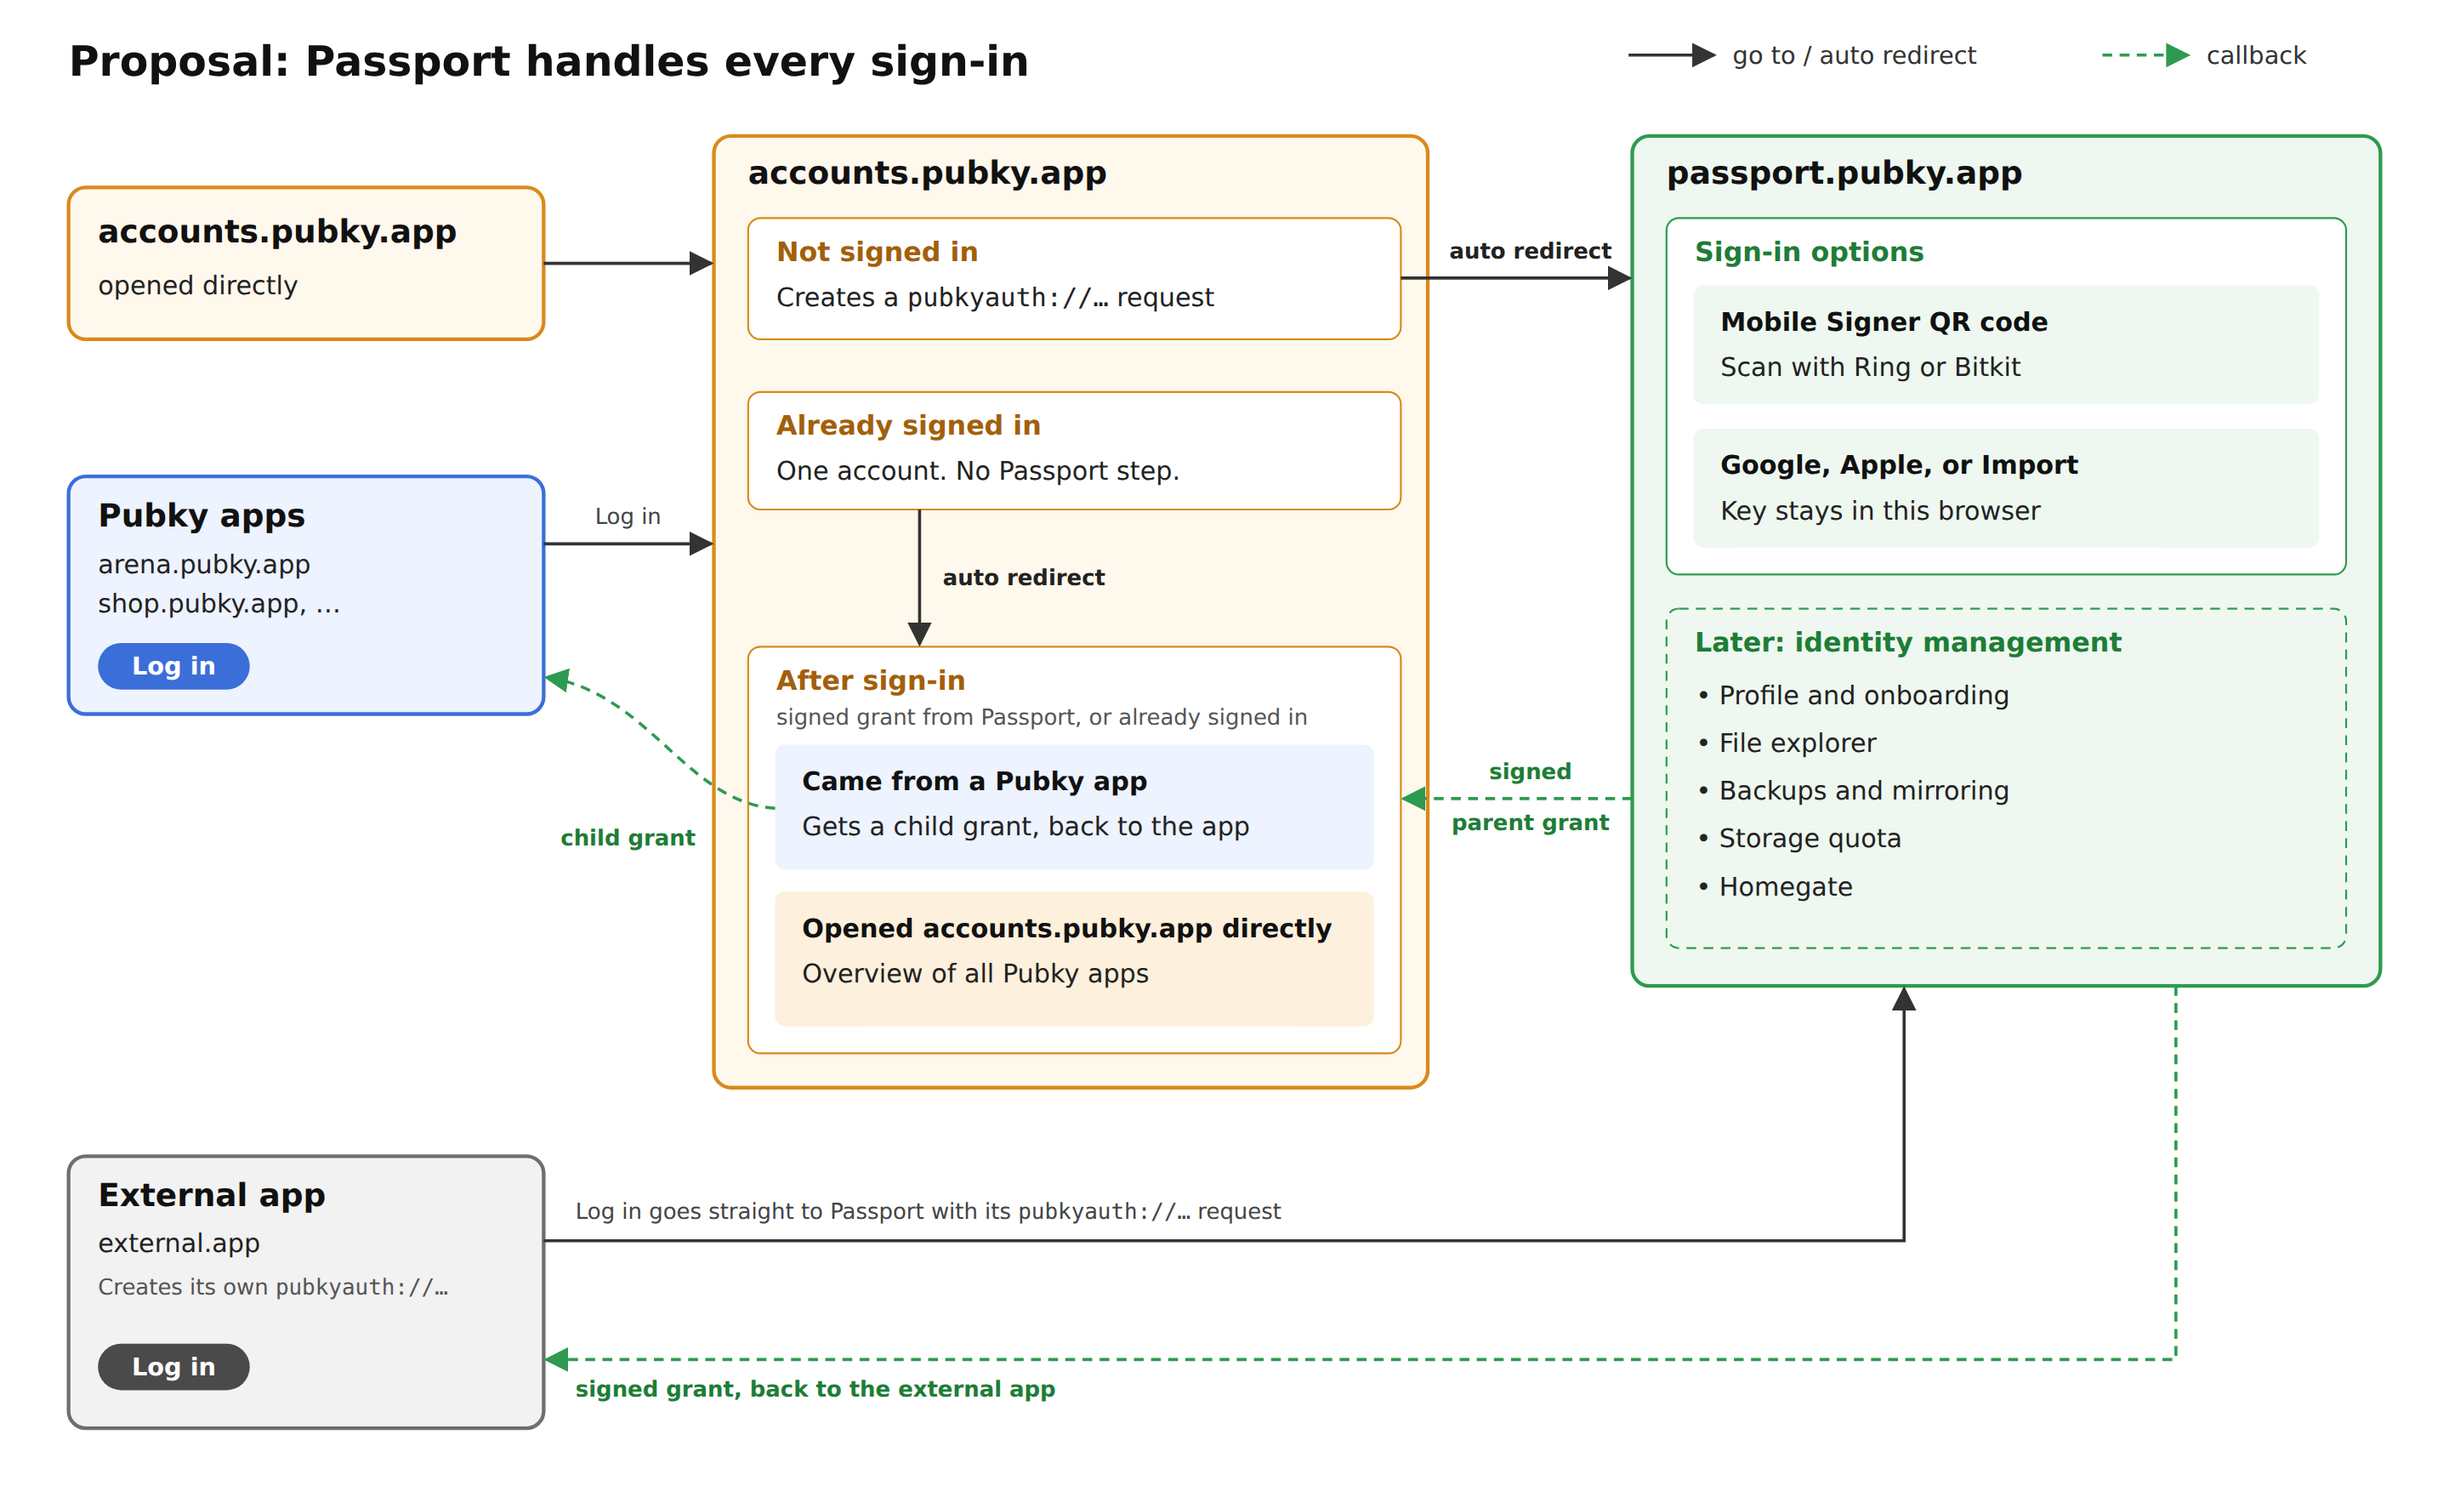
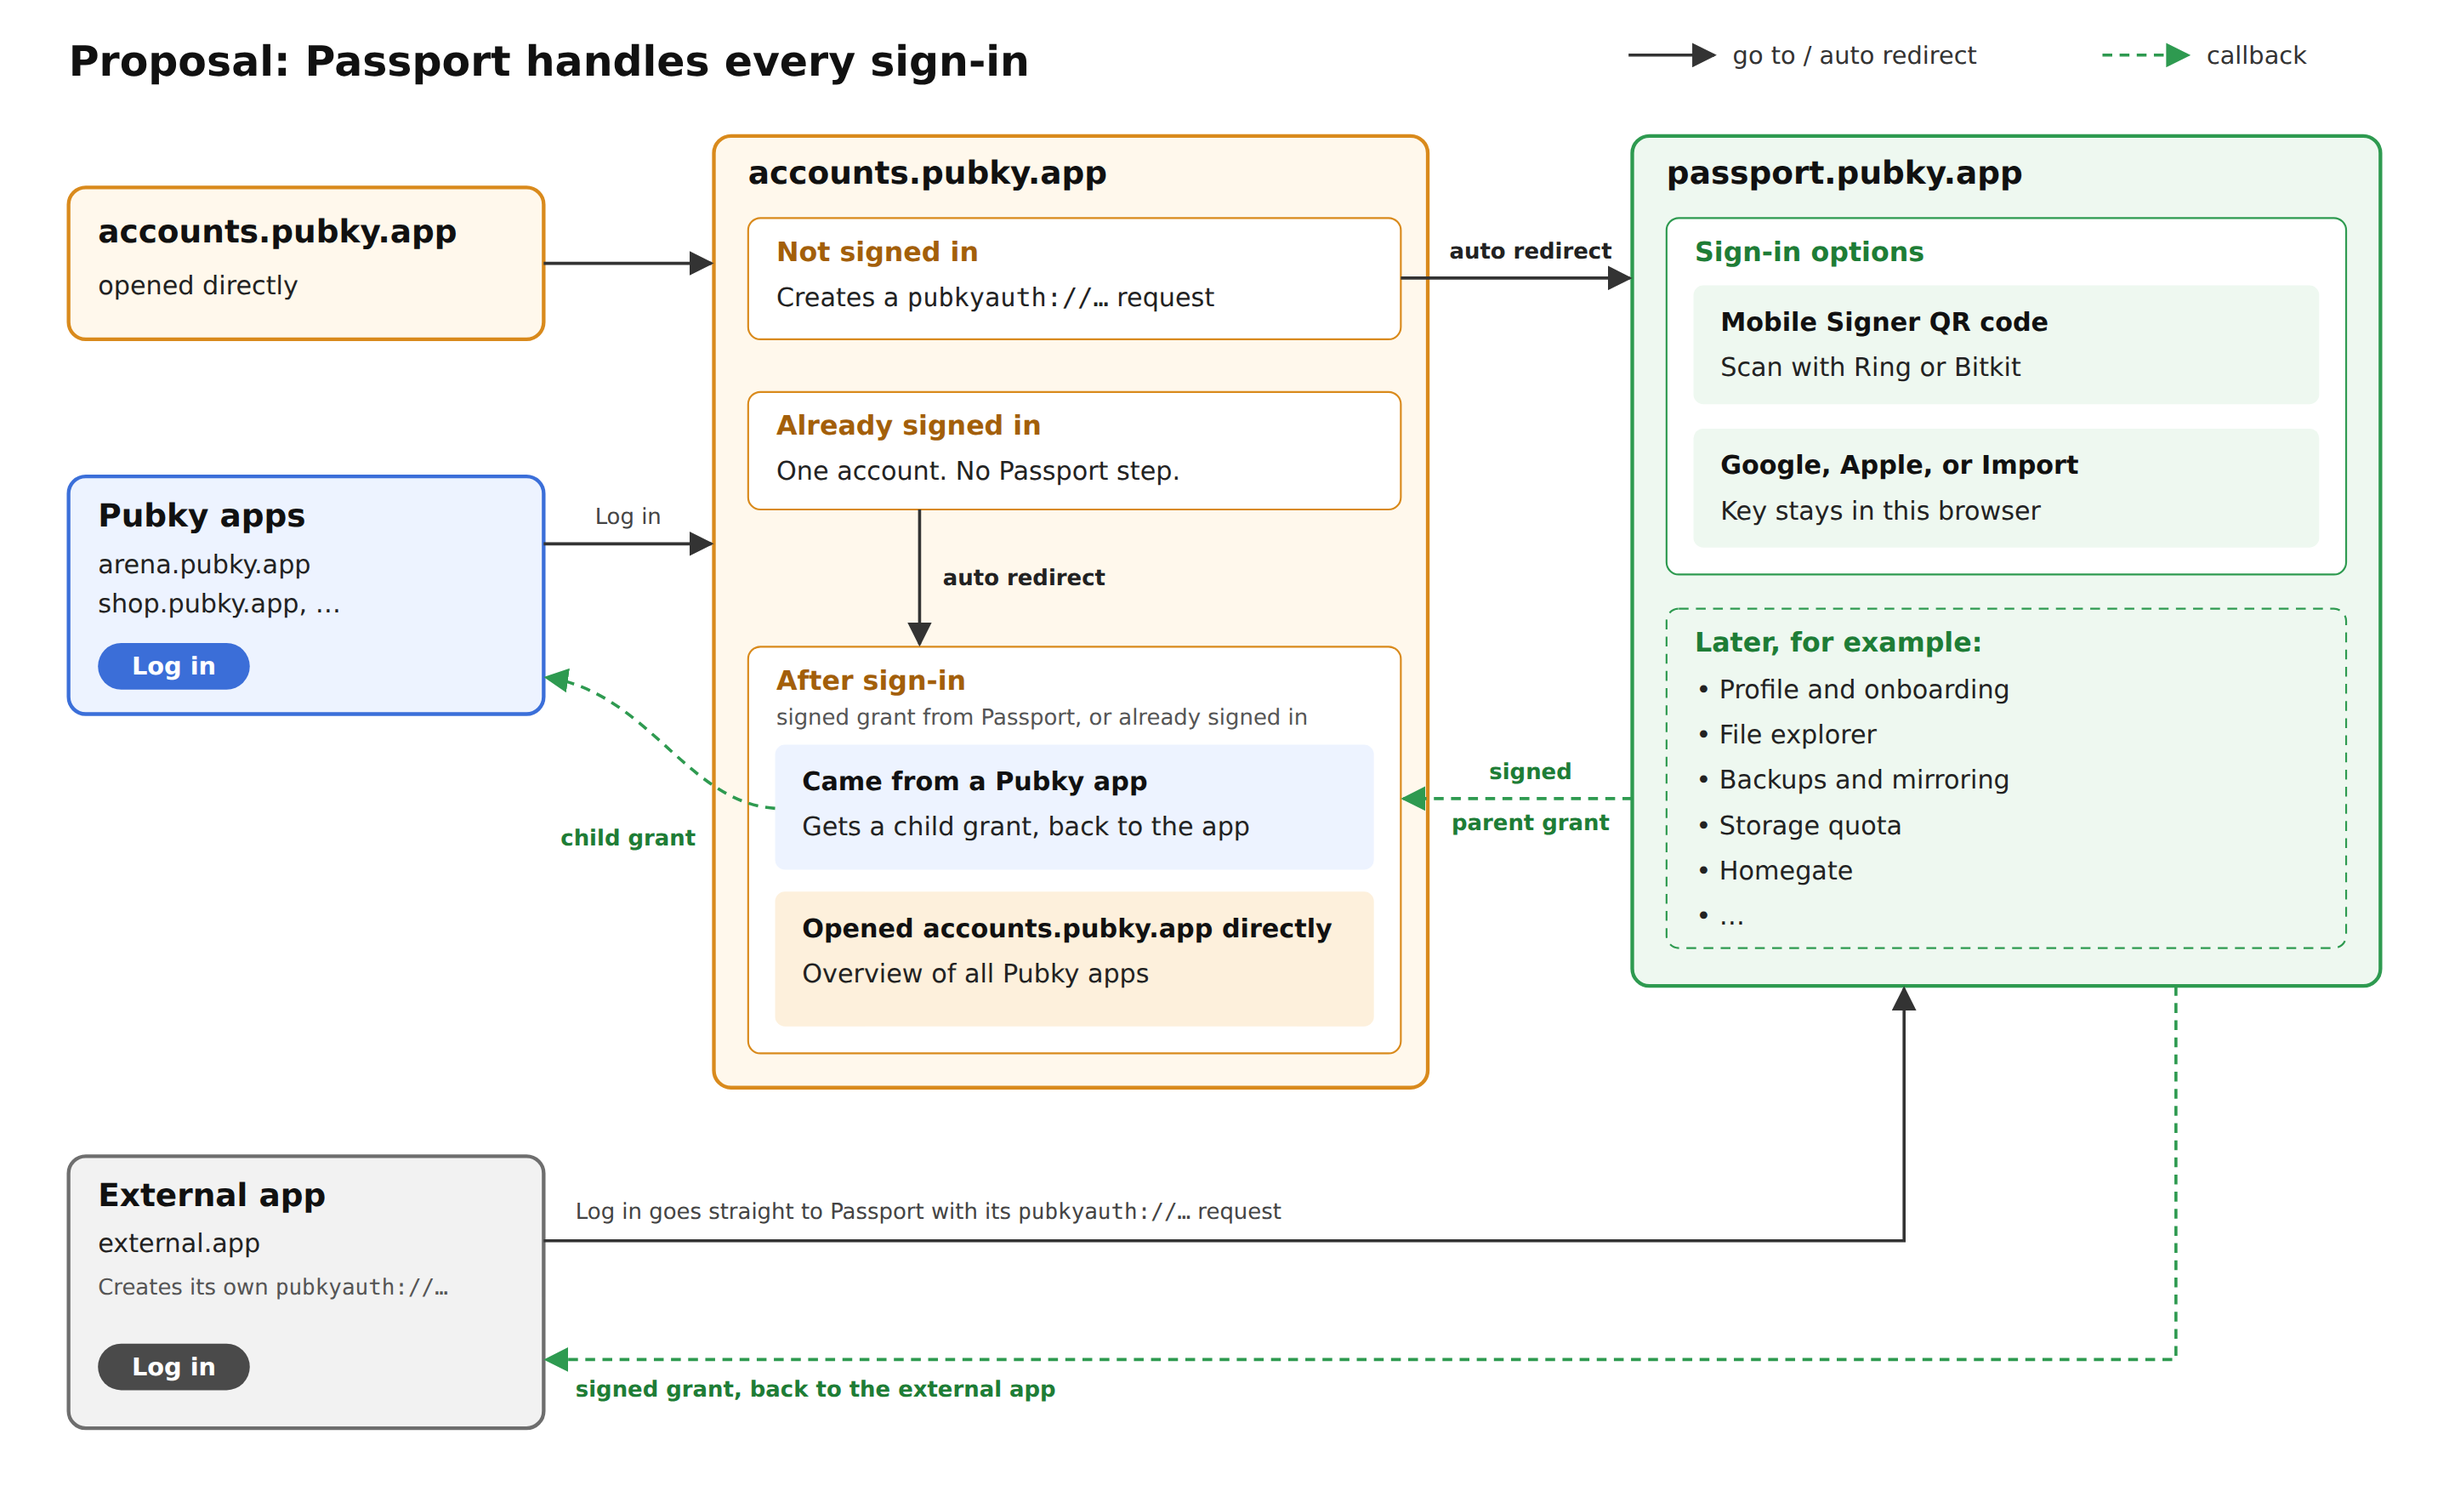
docs(rfc): group self-hosting and sign-in alternatives, split Accounts sign-in into its own option

Changed region(s): [[0.6875, 0.4062, 0.875, 0.5938]]

diff --git a/docs/rfc/0001-signers-and-accounts.md b/docs/rfc/0001-signers-and-accounts.md
@@ -7,8 +7,9 @@ Status: Draft. Anything not marked Live is a proposal.
 This RFC proposes how Passport and Pubky Accounts work together:
 
 - How people sign in to the Pubky suite.
-- What Passport is responsible for.
-- Which alternatives we could choose instead.
+- What Passport could take on later.
+- How Passport could be self-hosted.
+- Alternatives to redirecting people to Passport.
 
 It's meant for discussion. Nothing in it changes current behavior.
 
@@ -55,57 +56,75 @@ Pubky Accounts always uses Passport to sign you in. The Passport page shows ever
 
 External apps skip Accounts. They send their own `pubkyauth://` request straight to Passport and get the signed grant back, as shown at the bottom of the diagram above.
 
-### Later: identity management in Passport
+## Later: identity management in Passport
 
-Passport could become the place where you manage your pubky identity. This isn't limited to keys held in Passport. If you use a Mobile Signer, you can sign in to Passport with a grant and use the same tools:
+Passport could become the place where you manage your pubky identity. It isn't limited to keys held in Passport: if you use a Mobile Signer, you can sign in to Passport with a grant and use the same tools.
 
-- Homeserver file explorer.
-- Backups.
-- Homeserver mirroring.
-- Storage quota.
+Some examples of what it could offer:
+
+- Homeserver tools, such as a file explorer, backups, mirroring, and storage quota.
 - An interface for Homegate.
-- Onboarding to create and edit your profile. Each app decides whether it requires a profile.
-- Locked storage that protects keys in the browser with a PIN, a passkey, or biometrics.
-- A "Keep keys in this browser" option. If you turn it off, Passport uses a grant for everyday tasks and loads the key only when it needs to sign. This works only for Google and Apple identities, because imported keys have no cloud backup to reload from.
+- Profile onboarding. Each app decides whether it requires a profile.
+- Stronger key protection in the browser, such as a PIN, a passkey, or biometrics.
+- Not keeping keys in the browser. Passport would use a grant for everyday tasks and load the key only when it needs to sign. This works only for Google and Apple identities, because they can reload the key from their cloud backup.
 
-![Identity management in Passport](images/0001-2-identity-management.png)
+![Identity management in Passport, with examples](images/0001-2-identity-management.png)
 
-### Self-hosting
+## Self-hosting
 
-You could run your own Passport and point apps at it. A Google or Apple identity is tied to the Passport instance that created it. To move it to another instance, export a recovery file and import it there.
+Passport has a small backend. It checks your Google or Apple sign-in and returns the key that unlocks your backup. A Google or Apple identity is tied to the backend that created it. To move it to another one, export a recovery file and import it there.
 
-## Alternative: move the Passport backend into Homegate
+### Option: run your own Passport
 
-Passport has a small backend. It checks your Google or Apple sign-in and returns the key that unlocks your backup. In this alternative, Homegate provides that backend instead.
+You run your own Passport, frontend and backend, and set its address in the apps you use. It needs its own Google and Apple setup.
+
+### Option: Passport backend in Homegate
+
+Homegate provides the backend, and Passport becomes a client only.
 
 Benefits:
 
 - Passport becomes a frontend for any Homegate and the options it offers.
-- You could self-host the backend, or use a provider other than Synonym, and switch providers later.
-- Accounts could run the Google and Apple sign-in itself, in memory, without redirecting you to Passport.
+- You could self-host Homegate, or use a provider other than Synonym, and switch providers later.
 
 Tradeoffs:
 
-- If Accounts also runs the sign-in, every provider change must be built and maintained in both Accounts and Passport.
-- Two sites would handle private keys, which doubles what needs security review.
-- It isn't clear that Accounts needs its own sign-in.
+- Each Homegate needs its own Google and Apple setup.
+- Switching providers still means moving the identity with a recovery file.
 
 ![Passport backend in Homegate](images/0001-3-alternative-homegate.png)
 
-## UX constraint: sign-in on the app's own page
+## Alternatives to redirecting to Passport
 
-Ideally, every option would sit on one page in the same tab, and any app could add Passport to its own page. That constraint is what separates the options above.
+In the proposal, suite apps and Accounts send you to Passport to sign in. Ideally, every option would sit on the app's own page, in the same tab.
 
-Today, Google and Apple sign-in must start from a click on a page that carries Passport's key code and provider setup. That's why apps redirect you to Passport instead of showing the buttons themselves.
+Today, Google and Apple sign-in must start from a click on a page that carries Passport's key code and provider setup. That's why apps redirect you to Passport instead of showing the buttons themselves. Each alternative below handles this differently.
 
-### To explore: an embedded Passport
+### Option: Accounts runs Google and Apple sign-in itself
 
-An app page embeds Passport in an iframe. You sign in inside the iframe. The app gets the signed grant but never has access to the key.
+Accounts shows Continue with Google and Continue with Apple on its own page. It loads the key in memory, signs the parent grant, and clears the key, without redirecting you to Passport. Accounts and Passport would share one backend, such as Homegate from the self-hosting option or a separate service.
 
-![Passport embedded in an app page](images/0001-4-embedded-passport.png)
+Benefits:
+
+- Signing in to a suite app doesn't redirect you to Passport.
+
+Tradeoffs:
+
+- Every provider change must be built and maintained in both Accounts and Passport.
+- Two sites would handle private keys, which doubles what needs security review.
+- Both sites need the same Google client and Apple Services ID to reach the same backup. This isn't tested yet.
+- It isn't clear that Accounts needs its own sign-in.
+
+![Accounts runs Google and Apple sign-in itself](images/0001-5-alternative-accounts-sign-in.png)
+
+### Option to explore: Passport embedded in the app page
+
+An app page embeds Passport in an iframe. You sign in inside the iframe. The app gets the signed grant but never has access to the key. This could work for any app, not only Accounts.
 
 Before choosing this option, we need to answer these questions:
 
 - Browsers give an embedded page separate storage for each site that embeds it. A Google or Apple identity would be restored from its cloud backup on each new site. An imported key would have to be imported again on each site.
 - Do Google and Apple sign-in work from inside an iframe in every browser we support?
 - Passport would have to allow embedding, limited to sites we trust.
+
+![Passport embedded in an app page](images/0001-4-embedded-passport.png)
